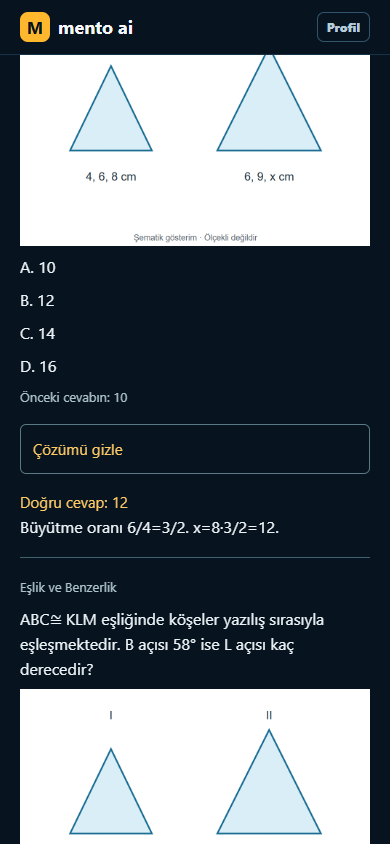
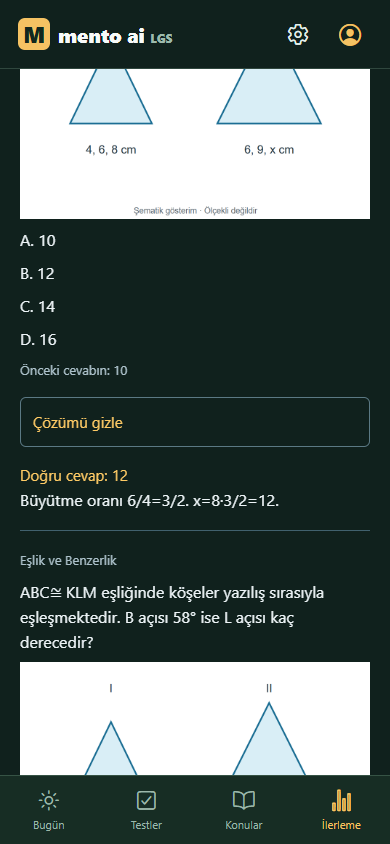
Improve site SEO and publishing pages

Changed region(s): [[0.0, 0.2464, 1.0, 1.0], [0.0308, 0.0, 0.9538, 0.2156], [0.9231, 0.5237, 0.9538, 0.5545]]

diff --git a/server.js b/server.js
@@ -645,6 +645,19 @@ function verifyPassword(password, user) {
   return crypto.timingSafeEqual(Buffer.from(candidate, 'hex'), Buffer.from(user.passwordHash, 'hex'));
 }
 
+function issueSessionToken(user) {
+  user.sessionToken = crypto.randomBytes(32).toString('hex');
+  return user.sessionToken;
+}
+
+function verifySessionToken(token, user) {
+  if (!token || !user || !user.sessionToken) return false;
+  const a = Buffer.from(String(token));
+  const b = Buffer.from(String(user.sessionToken));
+  if (a.length !== b.length) return false;
+  return crypto.timingSafeEqual(a, b);
+}
+
 function generateCode() {
   return String(crypto.randomInt(100000, 1000000));
 }
@@ -819,9 +832,10 @@ async function handleVerify(req, res) {
     user.verificationCodeSalt = null;
     user.codeExpiresAt = null;
     user.updatedAt = new Date().toISOString();
+    const sessionToken = issueSessionToken(user);
     writeUsers(users);
 
-    sendJson(res, 200, { ok: true, user: publicUser(user) });
+    sendJson(res, 200, { ok: true, user: publicUser(user), sessionToken });
   } catch (error) {
     sendJson(res, 500, { error: error.message || 'Doğrulama hatası.' });
   }
@@ -864,7 +878,8 @@ async function handleLogin(req, res) {
       return;
     }
 
-    const user = readUsers().find(u => u.email === email);
+    const users = readUsers();
+    const user = users.find(u => u.email === email);
 
     if (user && user.googleAuth && !user.passwordHash) {
       sendJson(res, 401, { error: 'Bu hesap Google ile oluşturulmuş. Lütfen Google ile devam et butonunu kullan.' });
@@ -879,9 +894,34 @@ async function handleLogin(req, res) {
       return;
     }
 
-    sendJson(res, 200, { ok: true, user: publicUser(user) });
+    const sessionToken = issueSessionToken(user);
+    user.updatedAt = new Date().toISOString();
+    writeUsers(users);
+
+    sendJson(res, 200, { ok: true, user: publicUser(user), sessionToken });
   } catch (error) {
     sendJson(res, 500, { error: error.message || 'Giriş hatası.' });
+  }
+}
+
+async function handleSessionLogin(req, res) {
+  try {
+    const body = JSON.parse(await readBody(req) || '{}');
+    const email = normalizeEmail(body.email);
+    const sessionToken = String(body.sessionToken || '');
+    const users = readUsers();
+    const user = users.find(u => u.email === email);
+    if (!verifySessionToken(sessionToken, user)) {
+      sendJson(res, 401, { error: 'Oturum süresi dolmuş. Tekrar giriş yap.' });
+      return;
+    }
+    if (!user.verified) {
+      sendJson(res, 403, { error: 'Önce e-posta doğrulama kodunu girmen gerekiyor.', needsVerification: true, email });
+      return;
+    }
+    sendJson(res, 200, { ok: true, user: publicUser(user) });
+  } catch (error) {
+    sendJson(res, 500, { error: error.message || 'Oturum doğrulanamadı.' });
   }
 }
 
@@ -926,6 +966,7 @@ async function handleGoogleLogin(req, res) {
     let user = users.find(u => u.email === email);
     let isNewUser = false;
 
+    let nextUsers = users;
     if (!user) {
       isNewUser = true;
       user = {
@@ -943,14 +984,15 @@ async function handleGoogleLogin(req, res) {
         createdAt: new Date().toISOString(),
         updatedAt: new Date().toISOString()
       };
-      writeUsers([...users, user]);
+      nextUsers = [...users, user];
     } else if (!user.verified) {
       user.verified = true;
-      user.updatedAt = new Date().toISOString();
-      writeUsers(users);
     }
+    const sessionToken = issueSessionToken(user);
+    user.updatedAt = new Date().toISOString();
+    writeUsers(nextUsers);
 
-    sendJson(res, 200, { ok: true, isNewUser, user: publicUser(user) });
+    sendJson(res, 200, { ok: true, isNewUser, user: publicUser(user), sessionToken });
   } catch (error) {
     sendJson(res, 500, { error: error.message || 'Google girişi başarısız oldu.' });
   }
@@ -1018,6 +1060,7 @@ async function handleAppleLogin(req, res) {
     let isNewUser = false;
     const nameFromApple = [fullName.givenName, fullName.familyName].filter(Boolean).join(' ').trim();
 
+    let nextUsers = users;
     if (!user) {
       isNewUser = true;
       user = {
@@ -1035,15 +1078,16 @@ async function handleAppleLogin(req, res) {
         createdAt: new Date().toISOString(),
         updatedAt: new Date().toISOString()
       };
-      writeUsers([...users, user]);
+      nextUsers = [...users, user];
     } else {
-      let changed = false;
-      if (!user.verified) { user.verified = true; changed = true; }
-      if (nameFromApple && (!user.name || user.name === email.split('@')[0])) { user.name = nameFromApple; changed = true; }
-      if (changed) { user.updatedAt = new Date().toISOString(); writeUsers(users); }
+      if (!user.verified) user.verified = true;
+      if (nameFromApple && (!user.name || user.name === email.split('@')[0])) user.name = nameFromApple;
     }
+    const sessionToken = issueSessionToken(user);
+    user.updatedAt = new Date().toISOString();
+    writeUsers(nextUsers);
 
-    sendJson(res, 200, { ok: true, isNewUser, user: publicUser(user) });
+    sendJson(res, 200, { ok: true, isNewUser, user: publicUser(user), sessionToken });
   } catch (error) {
     sendJson(res, error.status || 401, { error: error.message || 'Apple girişi başarısız oldu.' });
   }
@@ -1136,9 +1180,10 @@ async function handleResetPassword(req, res) {
     user.resetCodeExpiresAt = null;
     user.verified = true;
     user.updatedAt = new Date().toISOString();
+    const sessionToken = issueSessionToken(user);
     writeUsers(users);
 
-    sendJson(res, 200, { ok: true, user: publicUser(user) });
+    sendJson(res, 200, { ok: true, user: publicUser(user), sessionToken });
   } catch (error) {
     sendJson(res, 500, { error: error.message || 'Şifre yenilenemedi.' });
   }
@@ -1189,8 +1234,6 @@ async function handleDeleteAccount(req, res) {
         const verifyResponse = await fetch(`https://oauth2.googleapis.com/tokeninfo?id_token=${encodeURIComponent(idToken)}`);
         const payload = await verifyResponse.json().catch(() => ({}));
         verifiedOk = verifyResponse.ok && !payload.error && normalizeEmail(payload.email) === email;
-      } else {
-        verifiedOk = true;
       }
     } else if (user.appleAuth) {
       if (identityToken) {
@@ -1200,8 +1243,6 @@ async function handleDeleteAccount(req, res) {
         } catch {
           verifiedOk = false;
         }
-      } else {
-        verifiedOk = true;
       }
     }
 
@@ -1317,6 +1358,7 @@ async function handleAwardPoints(req, res) {
     const body = JSON.parse(await readBody(req) || '{}');
     const email = normalizeEmail(body.email);
     const password = String(body.password || '');
+    const sessionToken = String(body.sessionToken || '');
     const reason = String(body.reason || '');
     const maxForReason = POINT_REASONS[reason];
     if (!maxForReason) {
@@ -1327,7 +1369,11 @@ async function handleAwardPoints(req, res) {
 
     const users = readUsers();
     const user = users.find(u => u.email === email);
-    if (!user || !user.passwordHash || !verifyPassword(password, user)) {
+    const authOk = user && (
+      verifySessionToken(sessionToken, user) ||
+      (password && user.passwordHash && verifyPassword(password, user))
+    );
+    if (!authOk) {
       sendJson(res, 401, { error: 'E-posta veya şifre hatalı.' });
       return;
     }
@@ -1533,6 +1579,10 @@ function routeRequest(req, res) {
   }
   if (req.method === 'POST' && req.url === '/api/login') {
     handleLogin(req, res);
+    return;
+  }
+  if (req.method === 'POST' && req.url === '/api/session-login') {
+    handleSessionLogin(req, res);
     return;
   }
   if (req.method === 'POST' && req.url === '/api/request-password-reset') {

diff --git a/index.html b/index.html
@@ -3,6 +3,7 @@
 <head>
   <meta charset="UTF-8">
   <meta name="viewport" content="width=device-width, initial-scale=1.0">
+  <meta name="apple-itunes-app" content="app-id=6796065929">
   <title>Mento AI | Yapay Zekalı LGS Koçu</title>
   <style>[hidden]{display:none!important}.exam-grid,.choice-grid{grid-template-columns:1fr!important}</style>
   <meta name="description" content="Mento AI deneme sonuçlarını analiz eder, eksik konularını bulur ve sana özel çalışma planı oluşturur.">
@@ -5124,7 +5125,7 @@
             <p class="hero2-lead">Deneme sonuçlarını gir, Mento eksik konularını bulup bugünkü planını çıkarsın.</p>
             <div class="hero2-actions">
               <button class="btn btn-gold" type="button" data-open-demo>Ücretsiz başla <span>→</span></button>
-              <button class="btn btn-dark" type="button" data-open-demo>Planı gör <span class="play">▶</span></button>
+              <a class="btn btn-dark app-store-download" href="https://apps.apple.com/tr/app/mento-al/id6796065929" target="_blank" rel="noopener noreferrer" aria-label="Mento Al uygulamasını App Store’dan indir">App Store’dan indir <span aria-hidden="true">↗</span></a>
             </div>
             <div class="hero2-stats">
               <div class="hero2-stat"><strong>14.000+</strong><span>öğrenci</span></div>

diff --git a/scripts/test-lgs-native.js b/scripts/test-lgs-native.js
@@ -18,7 +18,7 @@ let browser;
  await page.waitForFunction(()=>JSON.parse(localStorage.getItem('mento.mobile.plan.v1')).exam==='LGS');
  const state=await page.evaluate(()=>JSON.parse(localStorage.getItem('mento.mobile.plan.v1')));
  assert.equal(state.examRecords.AYT.score,2);assert.equal(state.record.score,1);
- await page.getByText('Mini test',{exact:true}).click();
+ await page.getByRole('tab',{name:'Testler',exact:true}).click();
  await page.getByText('33 konu · 990 soru',{exact:true}).waitFor();
  await page.getByText('Eşlik ve Benzerlik',{exact:true}).click();
  for(const title of ['Test 1','Test 2','Test 3'])assert.equal(await page.getByText(title,{exact:true}).count(),1);
